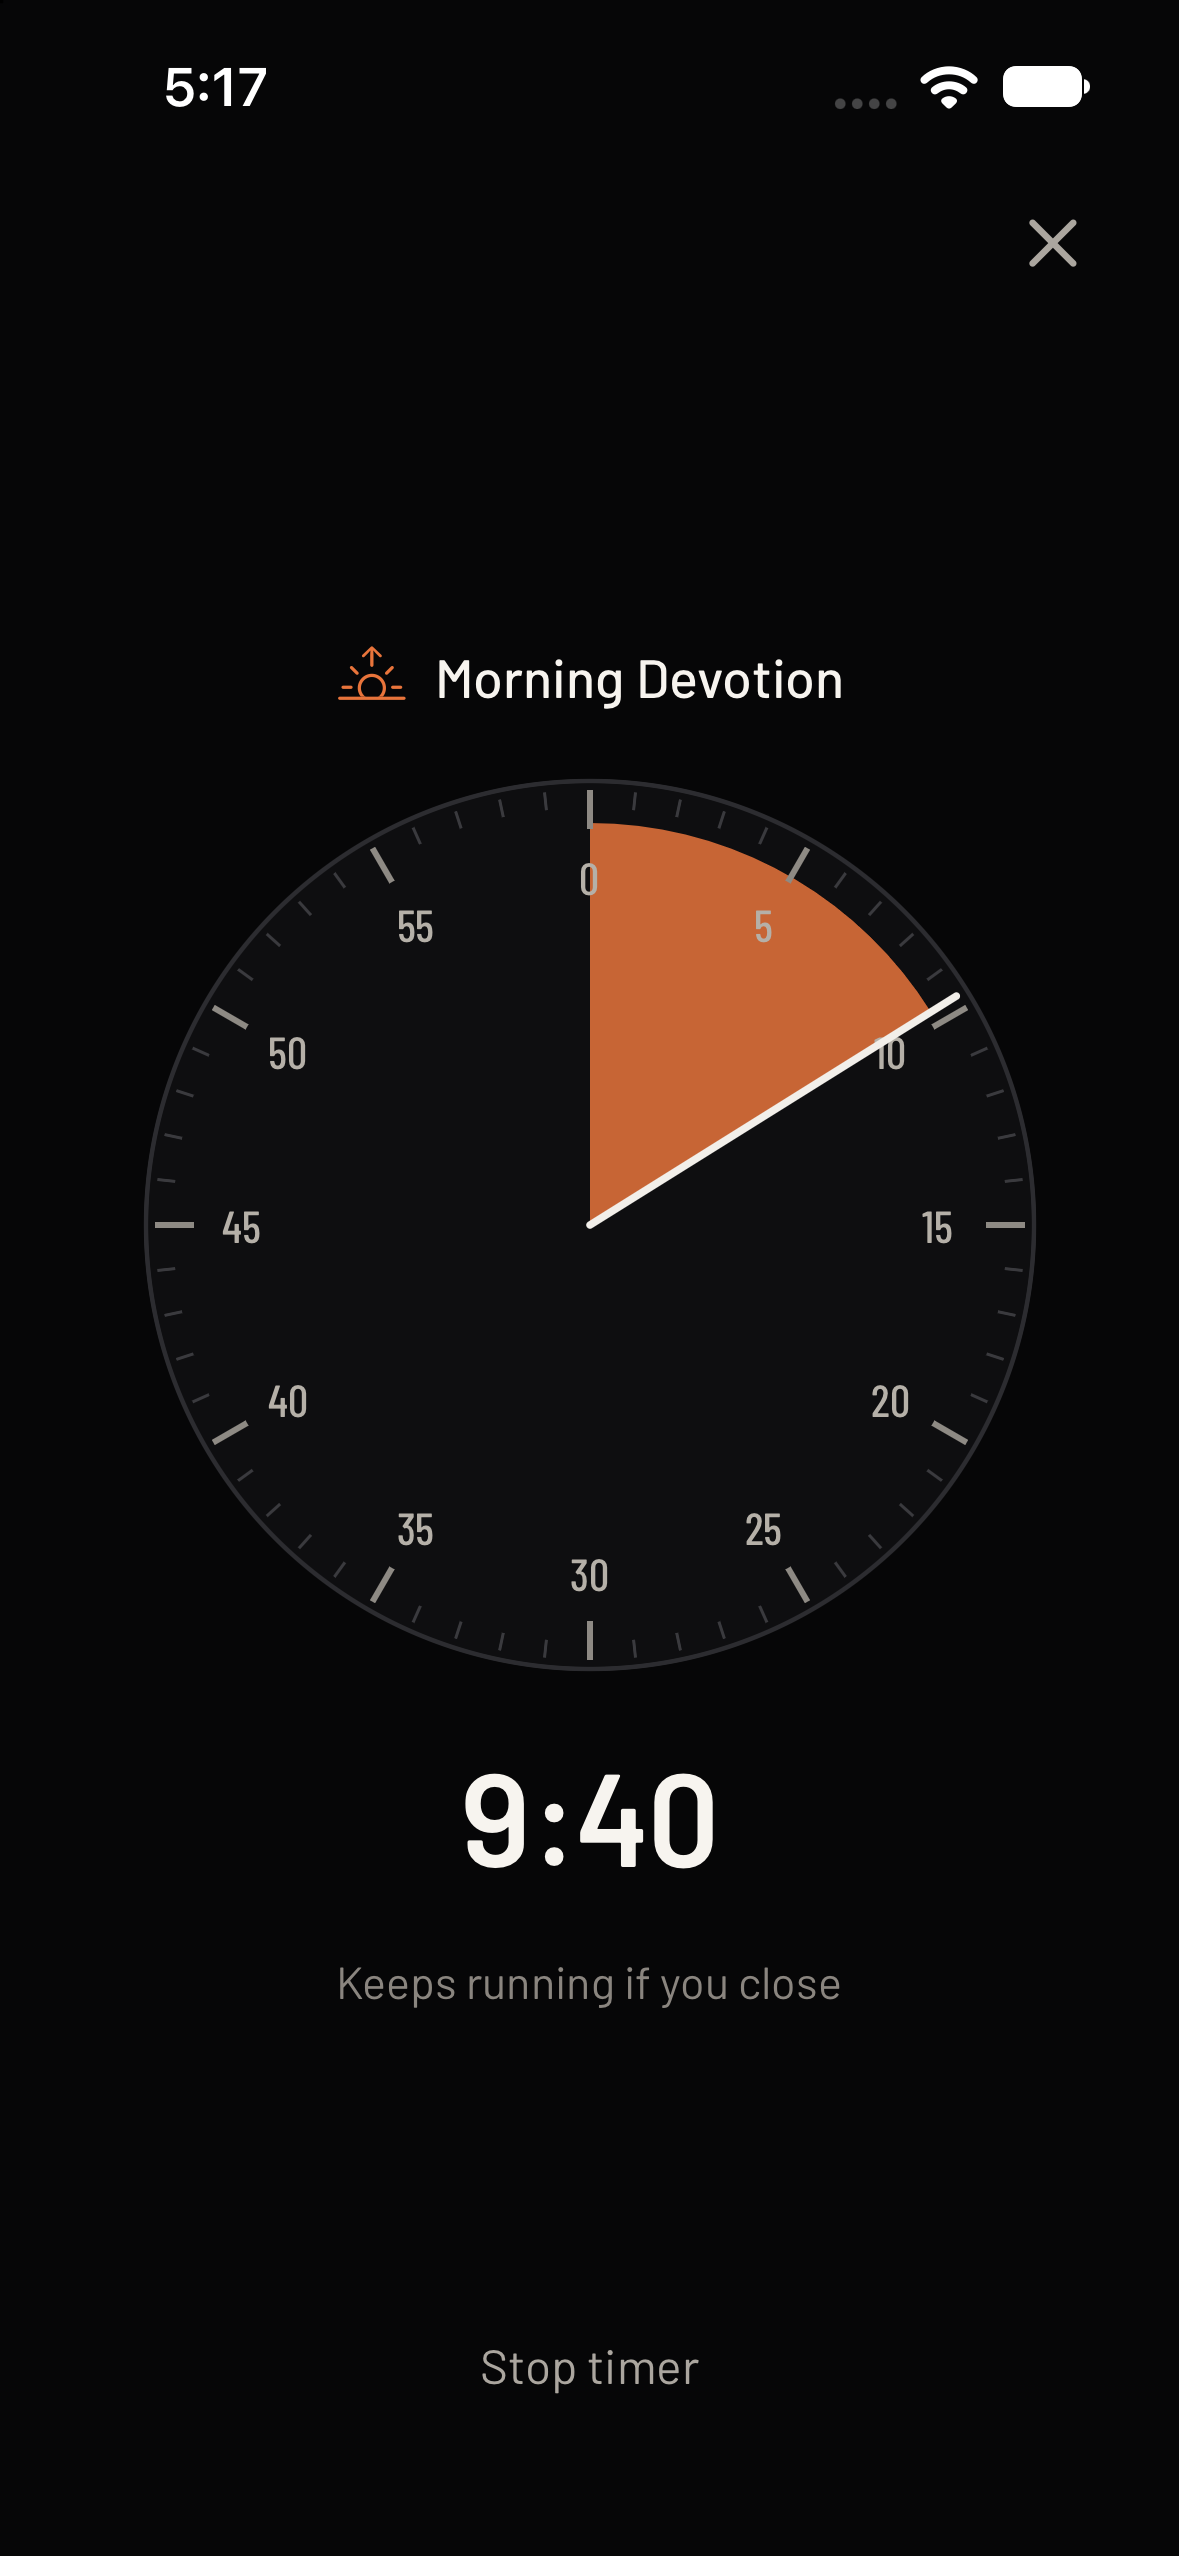
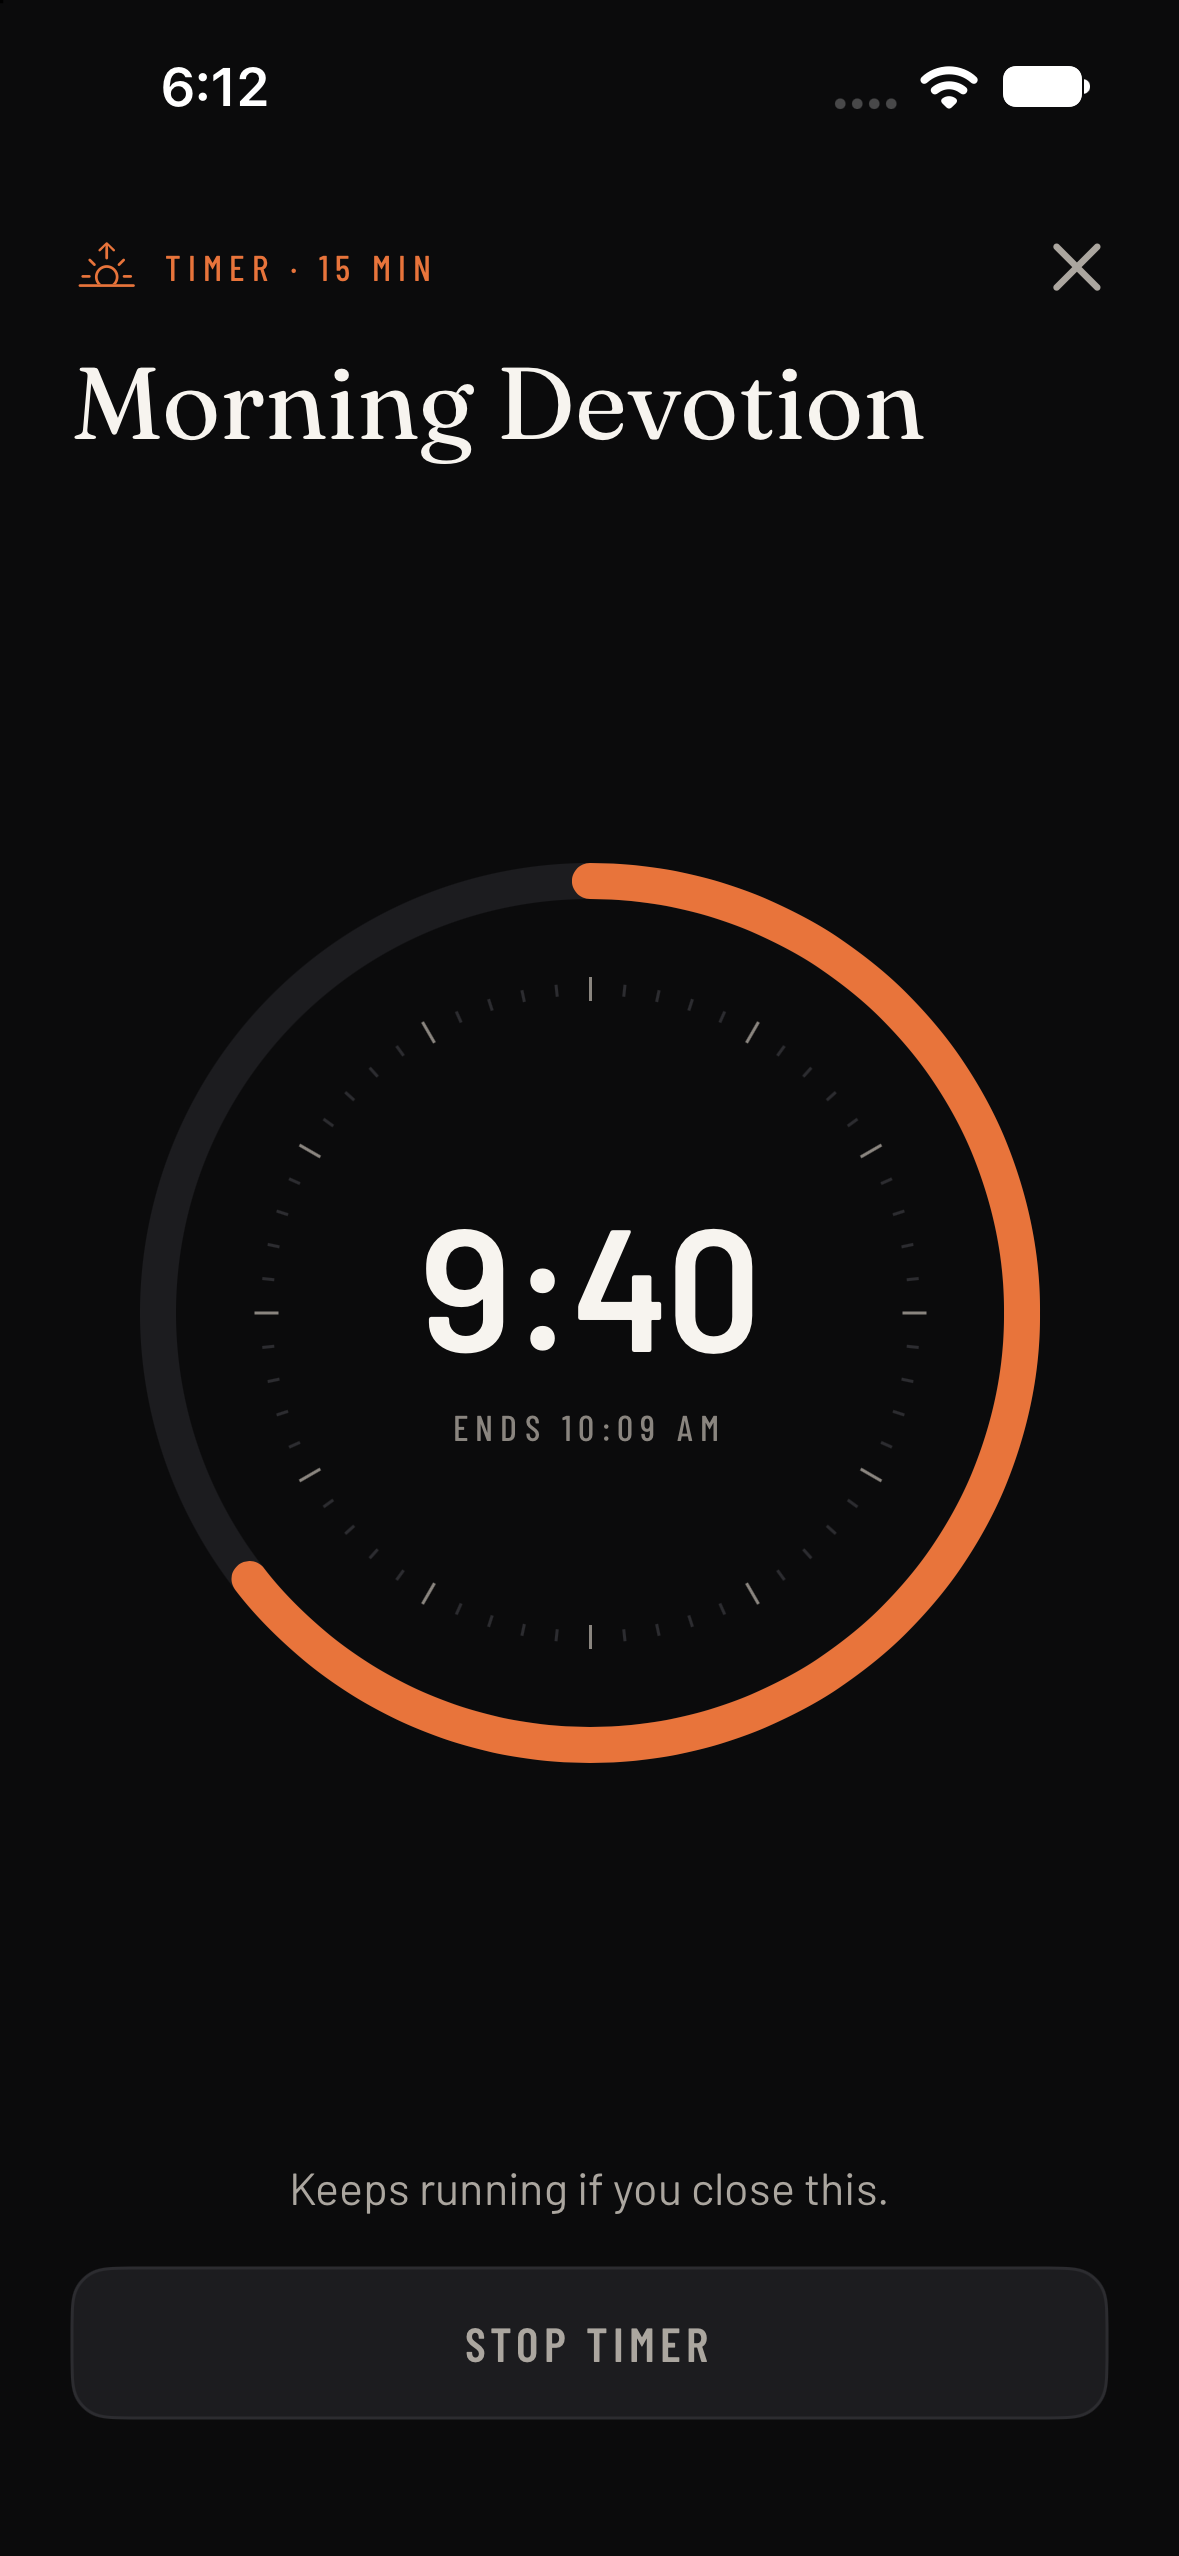
iOS: timer screen restyled to the app's language (ring, serif title, outlined stop row, theme colours)

diff --git a/ios/WeeklyDirection/FocusView.swift b/ios/WeeklyDirection/FocusView.swift
@@ -19,7 +19,7 @@ struct FocusView: View {
             content(now: Now.date)
         }
         .frame(maxWidth: .infinity, maxHeight: .infinity)
-        .background(Color(hex: 0x060607).ignoresSafeArea())
+        .background(Theme.bg.ignoresSafeArea())
         .onAppear { UIApplication.shared.isIdleTimerDisabled = true }
         .onDisappear { UIApplication.shared.isIdleTimerDisabled = false }
     }
@@ -28,32 +28,46 @@ struct FocusView: View {
         let w = store.week(weekId), c = w?.commitments.first { $0.id == habitId }
         if let w, let c, let m = c.min {
             let start = w.run(day, c.id)
-            let span = Double(m <= 60 ? 60 : m)
             let left = start.map { max(0, ($0 + Double(m) * 60000 - now.timeIntervalSince1970 * 1000) / 1000) } ?? Double(m * 60)
-            VStack(spacing: 20) {
+            VStack(alignment: .leading, spacing: 0) {
                 HStack {
+                    HStack(spacing: 8) {
+                        Ico(name: c.icon, size: 15).foregroundStyle(Theme.ac)
+                        Eyebrow(text: "Timer · \(m) min", color: Theme.ac)
+                    }
                     Spacer()
                     Button { router.cover = nil } label: {
-                        Image(systemName: "xmark").font(.system(size: 20, weight: .medium)).foregroundStyle(Color(hex: 0xABA69F))
-                            .frame(width: 44, height: 44)
+                        Image(systemName: "xmark").font(.system(size: 20, weight: .medium)).foregroundStyle(Theme.mu).frame(width: 44, height: 44)
                     }
                     .accessibilityLabel("Close")
                 }
-                Spacer()
-                HStack(spacing: 8) {
-                    Ico(name: c.icon, size: 18).foregroundStyle(Theme.ac)
-                    Text(c.name).rowTitle().foregroundStyle(Color(hex: 0xF7F4EF))
+                .padding(.trailing, -12)
+                Text(c.name).title(34).foregroundStyle(Theme.tx).lineLimit(2).minimumScaleFactor(0.7).padding(.top, 2).wordLand()
+                Spacer(minLength: 20)
+                Ring(fraction: min(1, left / Double(m * 60)), done: left <= 0) {
+                    VStack(spacing: 6) {
+                        Text(left > 0 ? Fmt.mmss(left) : "Done")
+                            .font(Theme.num(58)).monospacedDigit().foregroundStyle(left > 0 ? Theme.tx : Theme.ac)
+                            .contentTransition(.numericText(countsDown: true))
+                        Eyebrow(text: left > 0 ? (start.map { "ends " + Fmt.clock(Date(timeIntervalSince1970: ($0 + Double(m) * 60000) / 1000)) } ?? "left") : "kept",
+                                color: Theme.mu2)
+                    }
                 }
-                Dial(span: span, minutesLeft: left / 60).frame(width: 300, height: 300)
-                Text(left > 0 ? Fmt.mmss(left) : "Done")
-                    .font(Theme.num(38)).monospacedDigit().foregroundStyle(left > 0 ? Color(hex: 0xF7F4EF) : Theme.ac)
-                Text(fin ? "\(c.name) · done" : "Keeps running if you close").font(Theme.ui(14)).foregroundStyle(Color(hex: 0x8A857F))
-                Spacer()
-                if !fin {
-                    Button("Stop timer") { confirmStop = true }.font(Theme.ui(15)).foregroundStyle(Color(hex: 0xABA69F)).padding(.bottom, 20)
+                .frame(maxWidth: 300).frame(maxWidth: .infinity)
+                .rise(0)
+                Spacer(minLength: 20)
+                Text(fin ? "\(c.name) is done for today." : "Keeps running if you close this.")
+                    .font(Theme.ui(15)).foregroundStyle(Theme.mu).frame(maxWidth: .infinity).padding(.bottom, 18)
+                Button { confirmStop = true } label: {
+                    // the app's quiet outlined row (same as Delete entries): stopping is possible, not invited
+                    Text("Stop timer").caps(16).foregroundStyle(Theme.mu)
+                        .frame(maxWidth: .infinity).frame(height: 50)
+                        .background(Theme.card2, in: RoundedRectangle(cornerRadius: Theme.r(13), style: .continuous))
+                        .overlay(RoundedRectangle(cornerRadius: Theme.r(13), style: .continuous).stroke(Theme.line, lineWidth: 1))
                 }
+                .buttonStyle(.plain).opacity(fin ? 0 : 1).disabled(fin).padding(.bottom, 12)
             }
-            .padding(.horizontal, 20)
+            .padding(.horizontal, 24).padding(.top, 8)
             .onChange(of: start != nil, initial: true) { _, has in
                 // the start time can take a moment to sync back; only close if a run we already saw was stopped elsewhere
                 if has { seen = true } else if seen || Now.date.timeIntervalSince(opened) > 4 { router.cover = nil }
@@ -80,45 +94,33 @@ struct FocusView: View {
     }
 }
 
-/// a kitchen-timer face: the accent wedge is the time left, out of 60 minutes (or the habit's length if longer)
-private struct Dial: View {
-    let span: Double
-    let minutesLeft: Double
+/// The time left as a ring that empties (Nov 10 2026: replaces the kitchen-timer face, which had its own colours, type
+/// and numbers that ran into each other). One accent arc on a quiet track, the time in the middle.
+private struct Ring<Label: View>: View {
+    let fraction: Double
+    let done: Bool
+    @ViewBuilder var label: () -> Label
+    @State private var drawn = false
+    @Environment(\.accessibilityReduceMotion) private var still
 
     var body: some View {
-        Canvas { ctx, size in
-            let R = min(size.width, size.height) / 2 - 2, c = CGPoint(x: size.width / 2, y: size.height / 2)
-            let face = Path(ellipseIn: CGRect(x: c.x - R, y: c.y - R, width: R * 2, height: R * 2))
-            ctx.fill(face, with: .color(Color(hex: 0x0E0E10)))
-            ctx.stroke(face, with: .color(Color(hex: 0x2C2C30)), lineWidth: 1.5)
-            let frac = min(0.99999, max(0, minutesLeft / span))
-            if minutesLeft > 0 {
-                var wedge = Path()
-                wedge.move(to: c)
-                wedge.addArc(center: c, radius: R - 14, startAngle: .degrees(-90), endAngle: .degrees(-90 + 360 * frac), clockwise: false)
-                wedge.closeSubpath()
-                ctx.fill(wedge, with: .color(Color(hex: 0xE8743B).opacity(0.85)))
+        ZStack {
+            Circle().stroke(Theme.card2, lineWidth: 12)
+            // sixty faint minute marks inside the track, like the day squares: structure without numbers
+            ForEach(0..<60, id: \.self) { i in
+                Rectangle().fill(i % 5 == 0 ? Theme.mu2 : Theme.line).frame(width: 1, height: i % 5 == 0 ? 8 : 4)
+                    .offset(y: -108).rotationEffect(.degrees(Double(i) * 6))
             }
-            let step = span <= 60 ? 5.0 : span <= 120 ? 10.0 : 30.0, tick = span <= 120 ? 1.0 : 5.0
-            var m = 0.0
-            while m < span {
-                let a = m / span * 2 * .pi, major = m.truncatingRemainder(dividingBy: step) == 0, r1 = major ? R - 16 : R - 9
-                var p = Path()
-                p.move(to: CGPoint(x: c.x + sin(a) * r1, y: c.y - cos(a) * r1))
-                p.addLine(to: CGPoint(x: c.x + sin(a) * (R - 3), y: c.y - cos(a) * (R - 3)))
-                ctx.stroke(p, with: .color(Color(hex: major ? 0x8E8A84 : 0x3A3A3E)), lineWidth: major ? 2 : 1)
-                if major {
-                    let t = Text("\(Int(m))").font(.custom("BarlowCondensed-Medium", size: 15)).foregroundColor(Color(hex: 0xB5B0A8))
-                    ctx.draw(t, at: CGPoint(x: c.x + sin(a) * (R - 32), y: c.y - cos(a) * (R - 32)))
-                }
-                m += tick
-            }
-            let a = frac * 2 * .pi
-            var hand = Path()
-            hand.move(to: c)
-            hand.addLine(to: CGPoint(x: c.x + sin(a) * (R - 4), y: c.y - cos(a) * (R - 4)))
-            ctx.stroke(hand, with: .color(Color(hex: 0xF2EFEA)), style: StrokeStyle(lineWidth: 2.5, lineCap: .round))
+            Circle().trim(from: 0, to: done ? 1 : (drawn || still ? max(0.002, fraction) : 0))
+                .stroke(done ? Theme.acDim : Theme.ac, style: StrokeStyle(lineWidth: 12, lineCap: .round))
+                .rotationEffect(.degrees(-90))
+                .animation(.linear(duration: 0.25), value: fraction)
+            label()
         }
+        .aspectRatio(1, contentMode: .fit)
+        .padding(6)
+        .pop(on: done)
+        .onAppear { if !drawn { withAnimation(.timingCurve(0.2, 0.9, 0.2, 1, duration: 0.9).delay(0.15)) { drawn = true } } }
         .accessibilityHidden(true)
     }
 }

diff --git a/ios/docs/PROGRESS.md b/ios/docs/PROGRESS.md
@@ -6,6 +6,10 @@
 - A prayer that is only its name opens as a half sheet with "Add to this prayer"; Edit or that line lifts it to the full page. A prayer with text, the life prayer and New still open full height. The list stays plain rows (a text preview line was tried and removed the same day: Eddie wants the list simple).
 - Layout only: no change to what is saved. Verified: simulator shots `prayer`, `prayer-short`. Not verified: on the phone; the lift to full height when Edit is tapped.
 
+## Timer restyle (Nov 10)
+- The kitchen-timer face (own colours, overlapping numbers, plain-text Stop) is replaced: accent eyebrow "Timer · N min", the habit name as a serif page title, one accent ring that empties on a quiet track with the time and "ends h:mm" inside, and Stop timer as the app's outlined row. Uses the theme colours, so it follows light mode. The ring draws in on open. Timer rules and writes are unchanged.
+- Verified: simulator shots `focus`, `focus-light`. Not verified: on the phone; the finish moment; habits longer than 60 min (the ring is now always the habit's own length, the old face was out of 60).
+
 ## Week swiping and motion (Nov 10)
 - Week page (Journal → a week): swipe sideways for the week before / after, or tap the older / newer focus words at the bottom. Slides in from the side swiped. Off while selecting entries.
 - Motion ported from the web (`rise`, `wordland`, `sqpop` / `ckpop`), in `Theme.swift`: This Week (focus word settles out of a blur; day strip, habits, latest thought, streak rise in a stagger; check and day square pop when they change), Journal entries, Prayer rows, Progress hero. Entrances and tap responses only, nothing loops; skipped with Reduce Motion.
